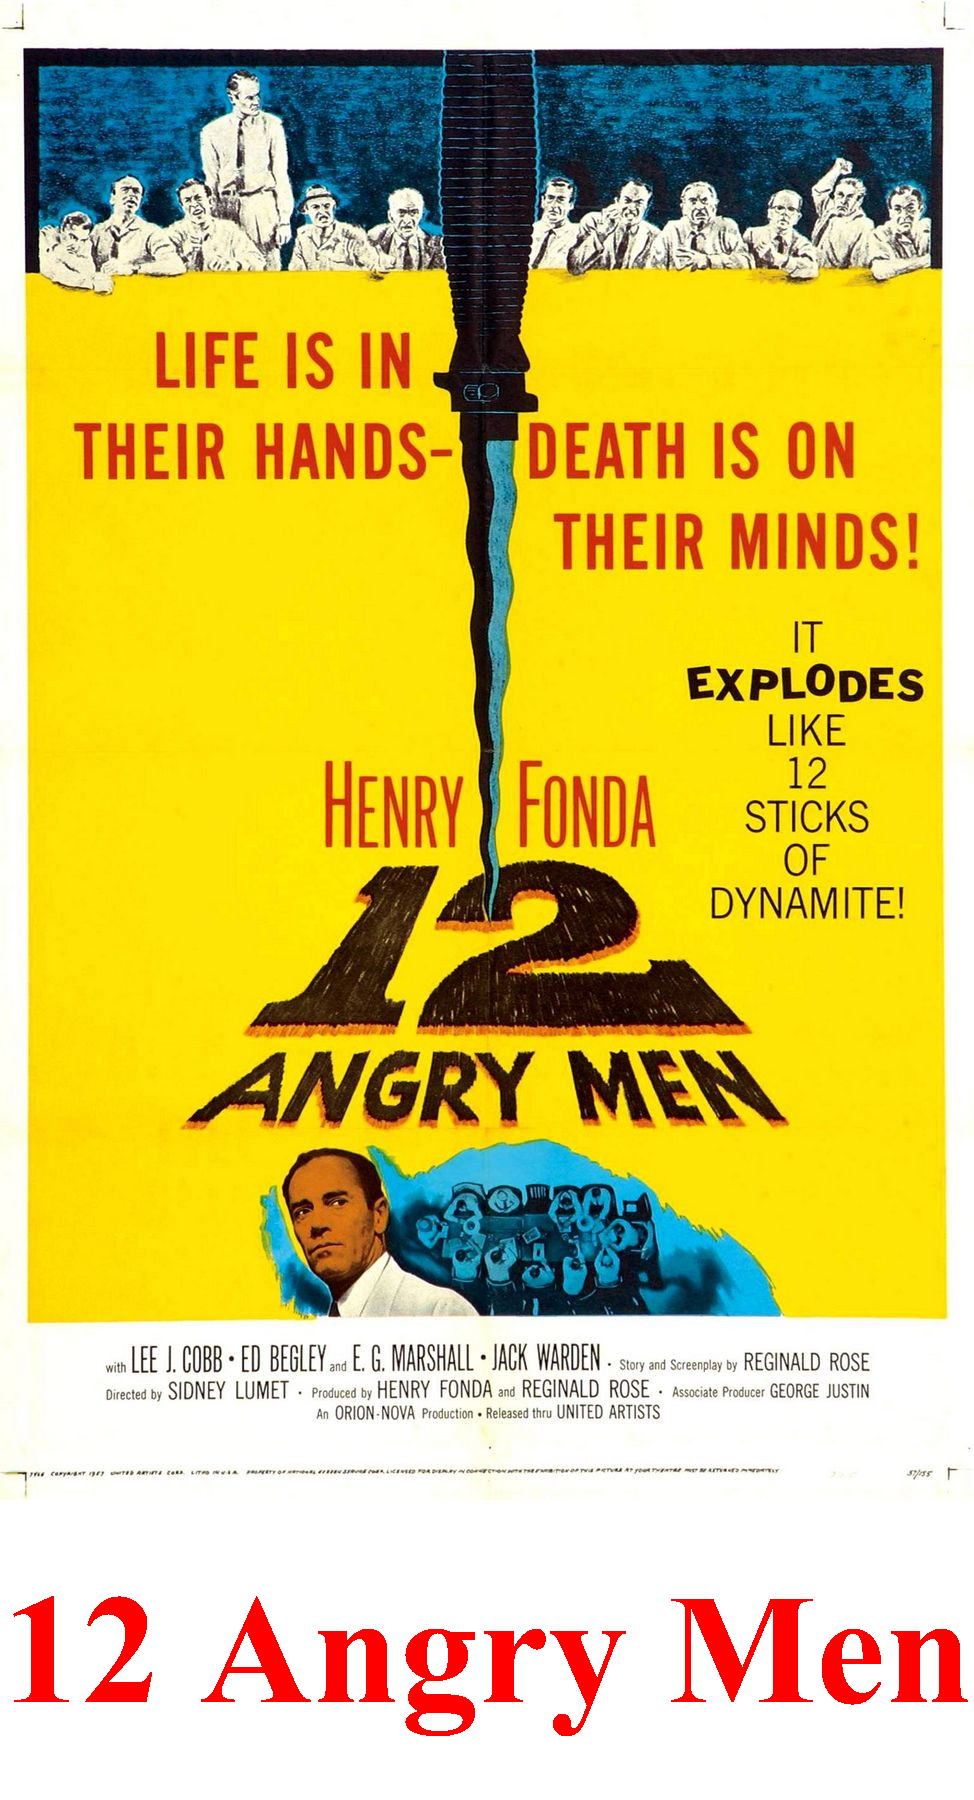
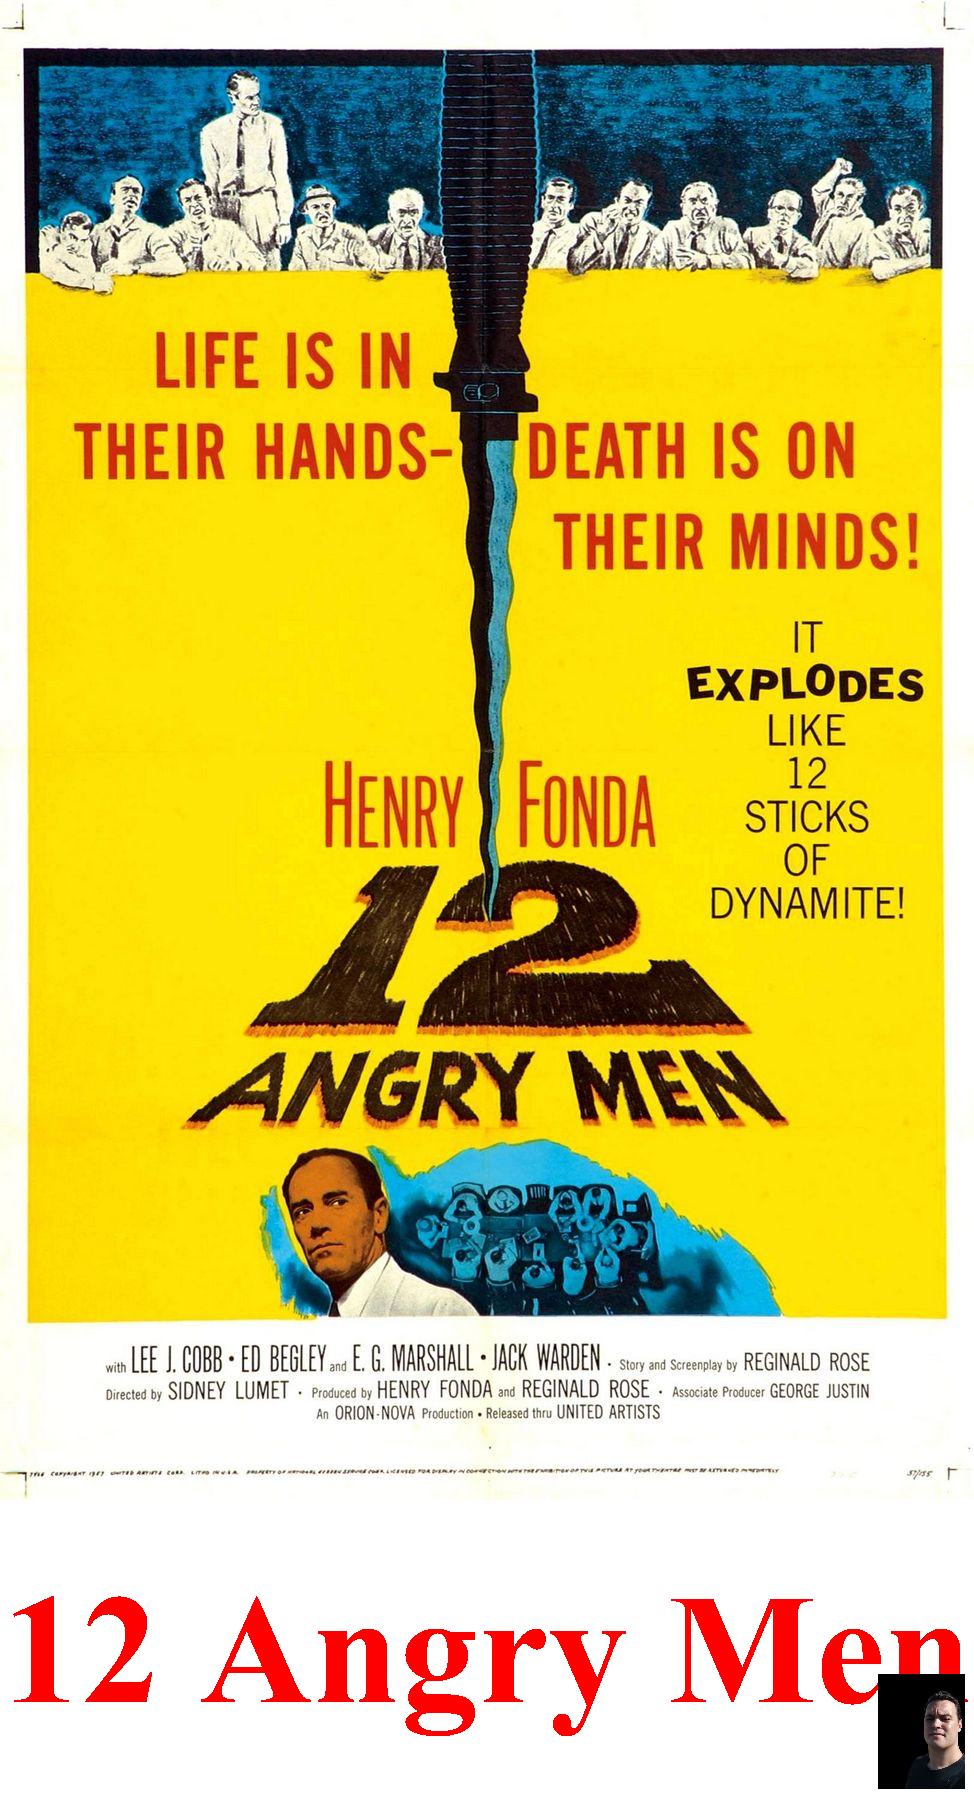
Added image water mark

Changed region(s): [[0.8932, 0.9022, 1.0, 0.9956]]

diff --git a/src/StickerFactory.java b/src/StickerFactory.java
@@ -3,6 +3,7 @@ import java.awt.Font;
 import java.awt.Graphics2D;
 import java.awt.Image;
 import java.awt.image.BufferedImage;
+import java.awt.image.RenderedImage;
 import java.io.File;
 import java.io.FileInputStream;
 import java.io.IOException;
@@ -72,8 +73,8 @@ public class StickerFactory {
         if(text.length() > 0){
             Font font = new Font(Font.SERIF, Font.BOLD, getFontSize(graphics, text, Font.SERIF, Font.BOLD, orgHeight, orgWidth));
             graphics.setFont(font);
-            graphics.setColor(Color.RED);           
-
+            graphics.setColor(Color.RED); 
+        
         /*
         * Write text
         */
@@ -82,16 +83,47 @@ public class StickerFactory {
         }
 
         /*
+         * Configure water mark
+         */
+        BufferedImage waterMark = ImageIO.read(new FileInputStream(INPUT + "watermark.png"));
+        float scale = Math.min((orgWidth/waterMark.getWidth())*0.1f, (orgHeight/waterMark.getHeight())*0.1f);
+        waterMark = resizeImage(waterMark, Math.round(waterMark.getWidth()*scale), Math.round(waterMark.getHeight()*scale));
+
+        /*
+         * Write water mark
+         */
+         graphics.drawImage(waterMark, null, Math.round(orgWidth - waterMark.getWidth()*1.1f), Math.round(rsdHeigth - waterMark.getHeight()*1.1f));
+
+        /*
          * Save image
          */
-        ImageIO.write(resized, ImageExtension.PNG.description, new File(this.getFileName(text, ImageExtension.PNG.description)));
+        this.saveImage(resized, ImageExtension.PNG.description, OUTPUT, this.getFileName(text, ImageExtension.PNG.description));
+    }
+
+    public boolean saveImage(RenderedImage image, String extension, String path, String name) throws IOException{
+        File folder = new File(path);
+        if(!folder.exists()) folder.mkdir();
+        try {
+            ImageIO.write(image, ImageExtension.PNG.description, new File(name));
+            return true;
+        } catch (Exception e) {
+            return false;
+        }
+        
     }
 
     /**
      * Create file name
      */
     private String getFileName(String text, String extension){
-        return OUTPUT + text.toLowerCase()
+        return getFileName(OUTPUT, text, extension);
+    }
+
+    /**
+     * Create file name
+     */
+    private String getFileName(String output, String text, String extension){
+        return output + text.toLowerCase()
         .replaceAll(" ", "-")
         .replaceAll("[^A-Za-z0-9-]", "")
          + "." + extension;
@@ -103,6 +135,17 @@ public class StickerFactory {
         graphics.setFont(baseFont);        
         int fontSize = (int) Math.floor(((Double.valueOf(width))/graphics.getFontMetrics().stringWidth(text))*baseFont.getSize());
         return fontSize;
+    }
+
+    /*
+     * Resize image
+     */
+    BufferedImage resizeImage(BufferedImage originalImage, int targetWidth, int targetHeight) throws IOException {
+        BufferedImage resizedImage = new BufferedImage(targetWidth, targetHeight, BufferedImage.TYPE_INT_RGB);
+        Graphics2D graphics2D = resizedImage.createGraphics();
+        graphics2D.drawImage(originalImage, 0, 0, targetWidth, targetHeight, null);
+        graphics2D.dispose();
+        return resizedImage;
     }
 
 
